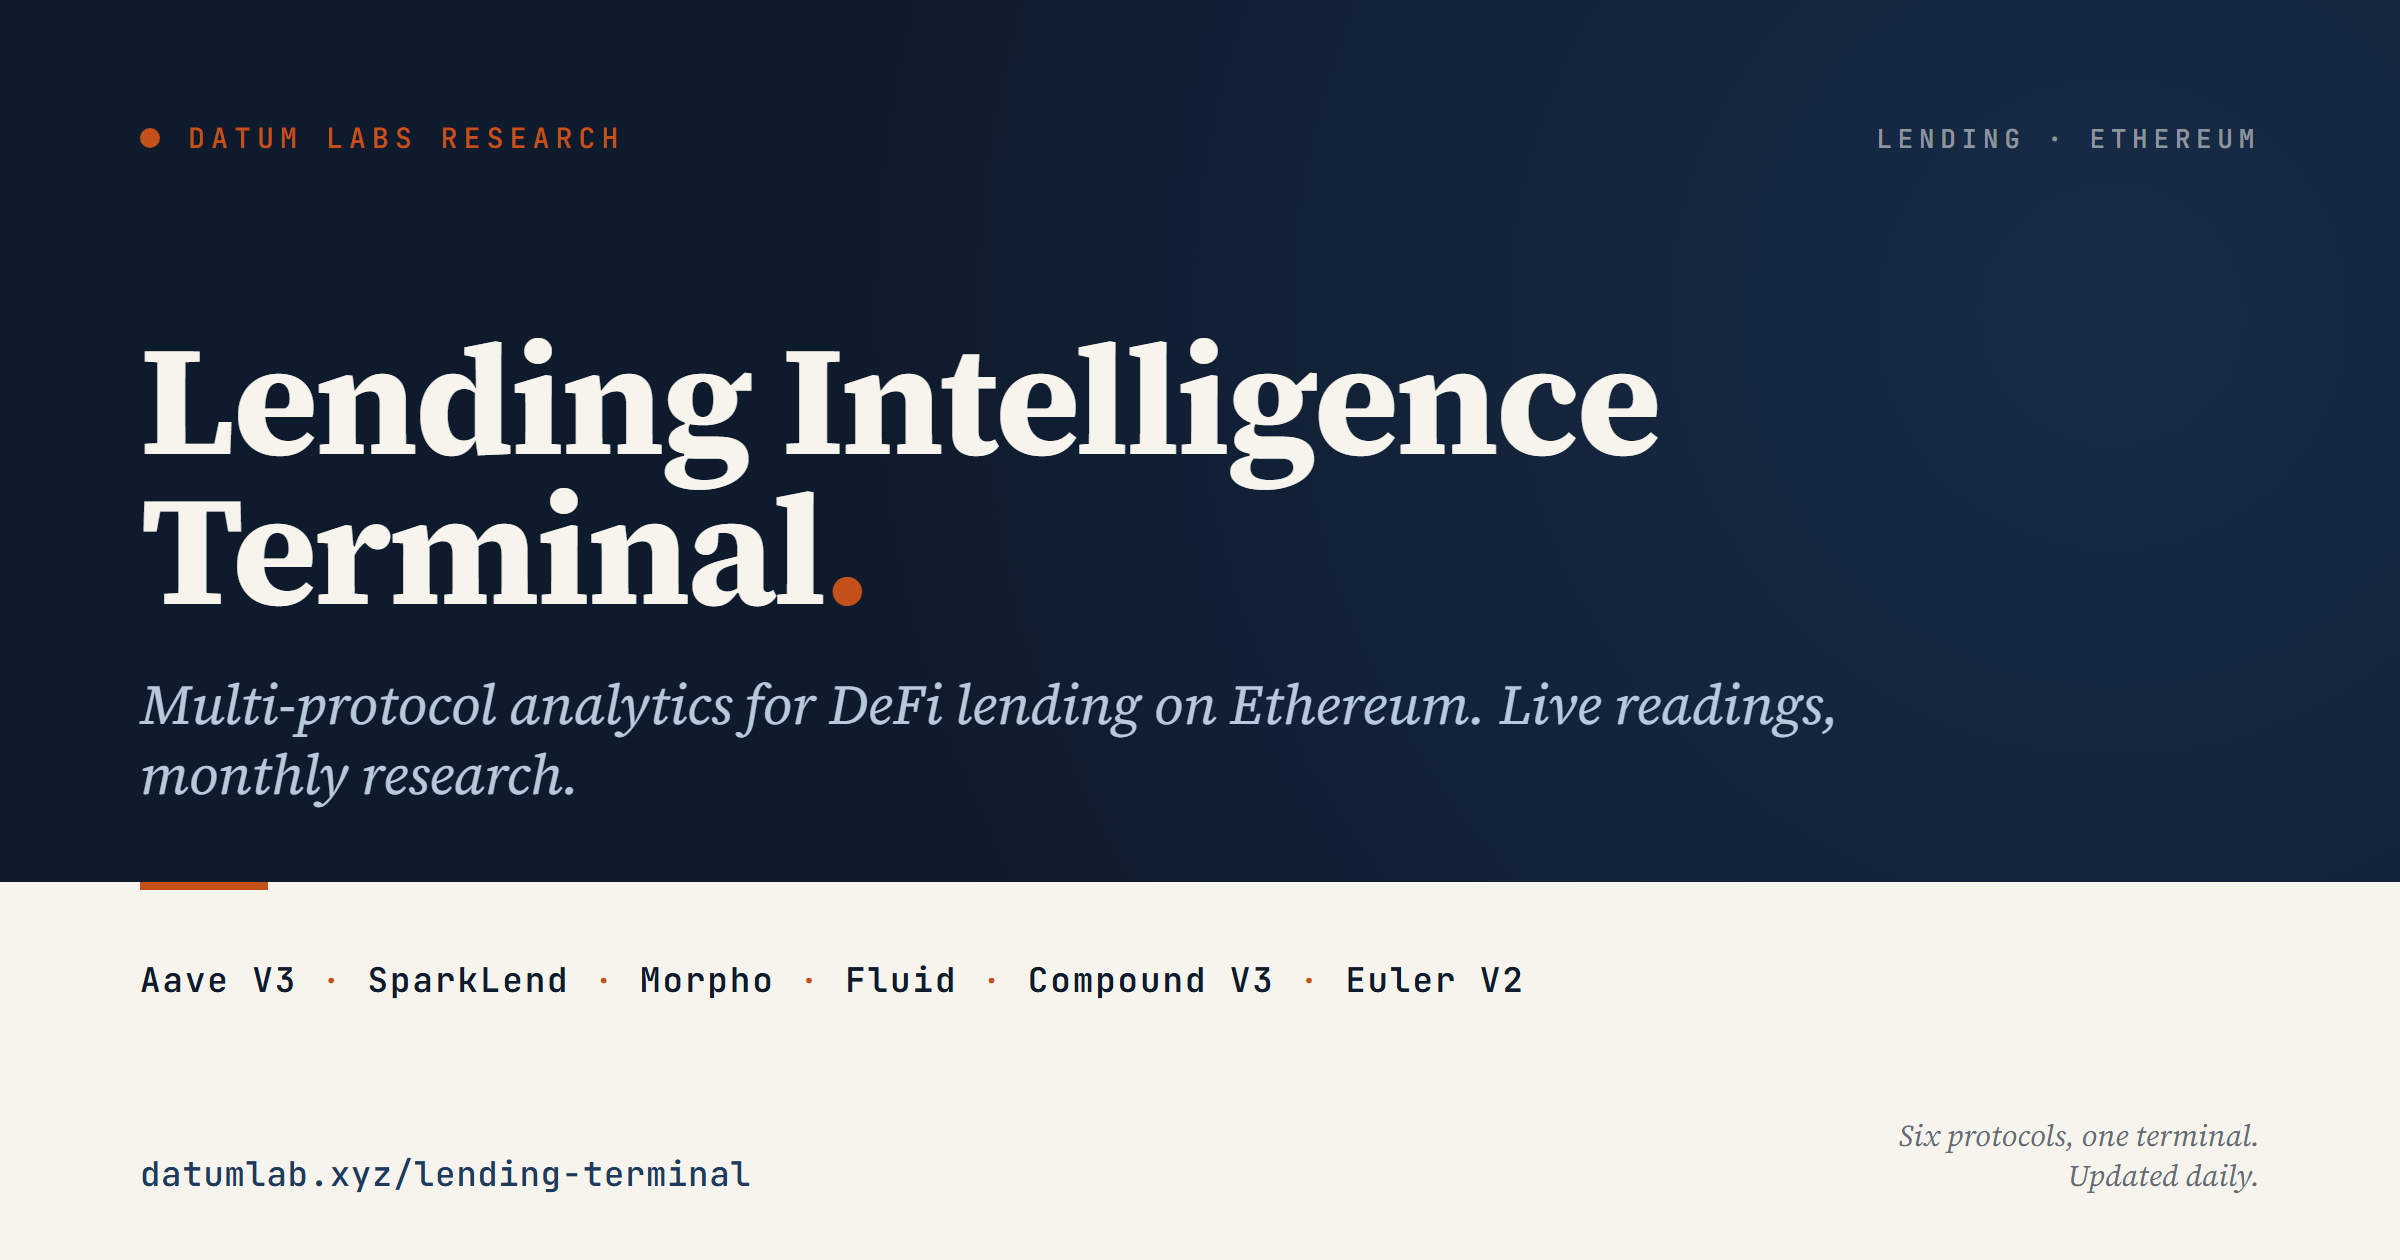
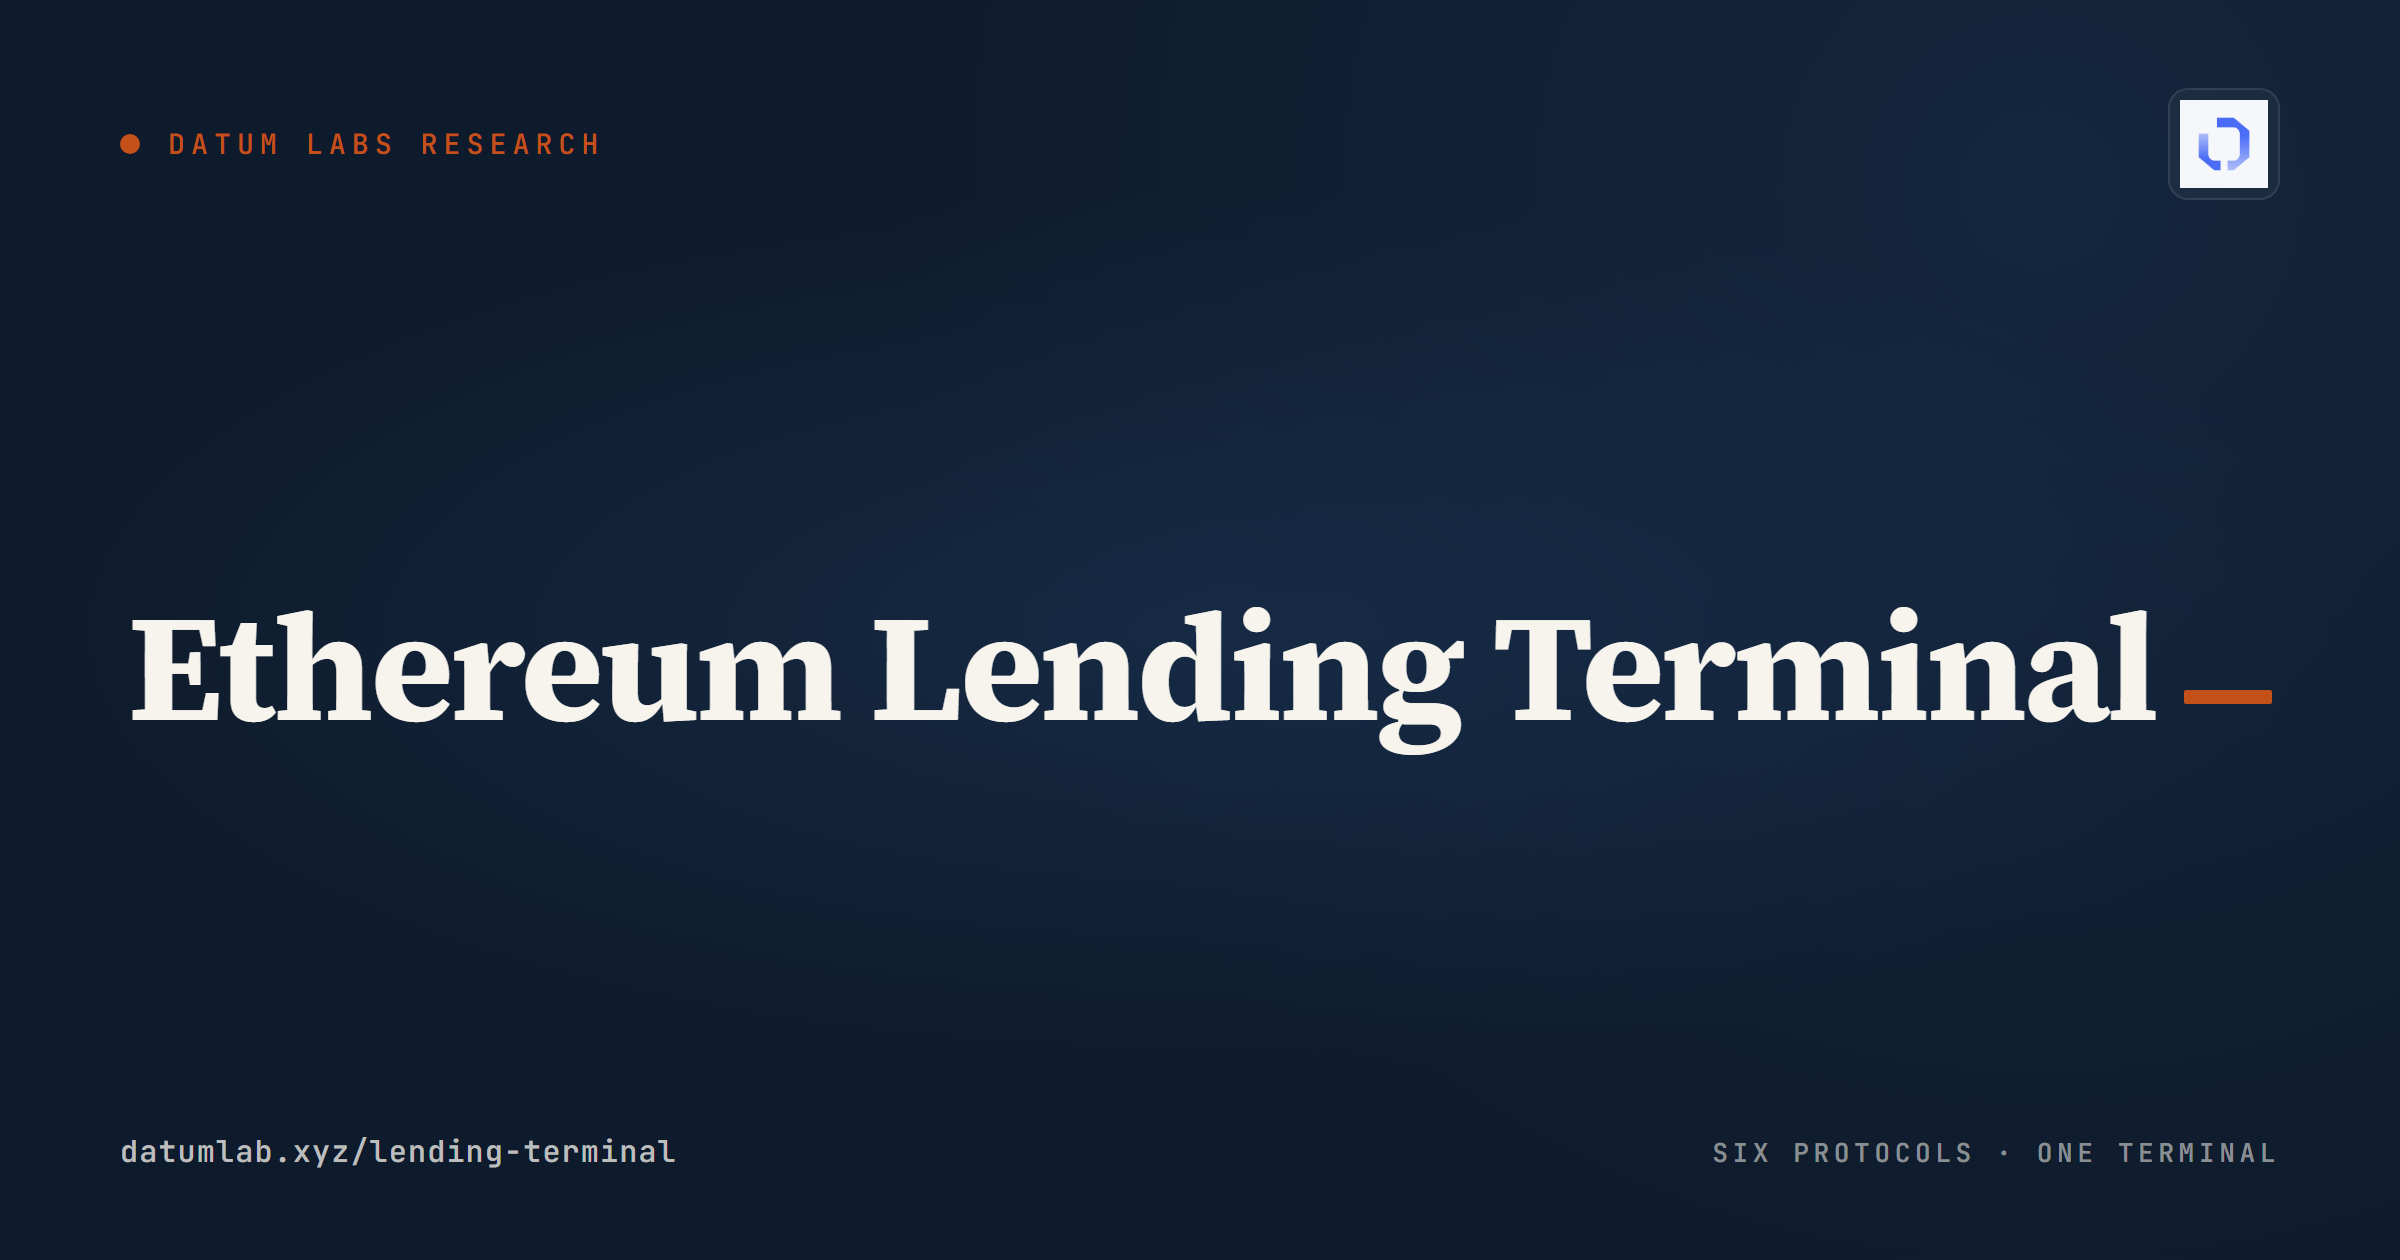
redesign(og): minimal centered wordmark for lending-terminal card
Reframes the dashboard OG card per editorial direction: drop the busy
two-zone layout (dark hero + cream footer with protocol row), bring back
a single centered wordmark in the Token Terminal mould but in Datum Labs
brand vocabulary.

  Top chrome:    DATUM LABS RESEARCH eyebrow (terracotta dot + uppercase
                 mono) on the left; Datum Labs brand icon in a soft
                 cream-tinted square on the right.
  Hero:          Single-line wordmark "Ethereum Lending Terminal" in
                 Source Serif 4 Bold at 76px (-0.022em tracking) with a
                 44×7px terracotta underscore cursor at the end, matching
                 the Token Terminal "_" prompt vibe but in #C5511A.
  Bottom chrome: datumlab.xyz/lending-terminal URL on the left;
                 "SIX PROTOCOLS · ONE TERMINAL" mono tag on the right.
  Background:    Ink #0E1B2C with two layered radial gradients (centred
                 cobalt glow + corner accent) for depth without noise.

The previous design's protocol-name row and tagline ("Six protocols,
one terminal. Updated daily.") are gone — the wordmark is the read.
"Six Protocols · One Terminal" lives in the corner tag for context.

diff --git a/content/og/lending-terminal.html b/content/og/lending-terminal.html
@@ -2,7 +2,7 @@
 <html lang="en">
 <head>
 <meta charset="UTF-8">
-<title>Lending Intelligence Terminal — OG Card</title>
+<title>Ethereum Lending Terminal — OG Card</title>
 <style>
   @import url('https://fonts.googleapis.com/css2?family=Source+Serif+4:ital,wght@0,400;0,600;0,700;1,400&family=JetBrains+Mono:wght@400;500;600&display=swap');
 
@@ -23,20 +23,16 @@
     position: relative;
     overflow: hidden;
     background:
-      radial-gradient(circle at 88% 25%, rgba(31, 58, 95, 0.55) 0%, rgba(14, 27, 44, 0) 55%),
-      linear-gradient(180deg, #0E1B2C 0%, #0E1B2C 70%, #F7F4ED 70%, #F7F4ED 100%);
-  }
-
-  /* Top dark hero zone */
-  .hero {
-    padding: 60px 70px 36px 70px;
-    height: 441px;
+      radial-gradient(ellipse 70% 50% at 50% 50%, rgba(31, 58, 95, 0.45) 0%, rgba(14, 27, 44, 0) 70%),
+      radial-gradient(circle at 85% 15%, rgba(31, 58, 95, 0.35) 0%, rgba(14, 27, 44, 0) 50%),
+      #0E1B2C;
     display: flex;
     flex-direction: column;
-    justify-content: space-between;
   }
 
-  .top-row {
+  /* Top chrome row */
+  .chrome-top {
+    padding: 44px 60px 0 60px;
     display: flex;
     justify-content: space-between;
     align-items: center;
@@ -64,131 +60,103 @@
     font-weight: 500;
   }
 
-  .label-row {
-    font-family: 'JetBrains Mono', monospace;
-    font-size: 13px;
-    letter-spacing: 0.22em;
-    text-transform: uppercase;
-    color: rgba(247, 244, 237, 0.55);
-    font-weight: 500;
+  .brand-icon {
+    width: 56px;
+    height: 56px;
+    background: rgba(247, 244, 237, 0.04);
+    border: 1px solid rgba(247, 244, 237, 0.10);
+    border-radius: 10px;
+    display: flex;
+    align-items: center;
+    justify-content: center;
   }
 
-  .title-block {
+  .brand-icon img {
+    width: 44px;
+    height: 44px;
+    display: block;
+  }
+
+  /* Center hero */
+  .hero {
+    flex: 1;
     display: flex;
     flex-direction: column;
-    gap: 22px;
+    justify-content: center;
+    align-items: center;
+    padding: 0 80px;
   }
 
-  .title {
+  .wordmark {
     font-family: 'Source Serif 4', 'Liberation Serif', Georgia, serif;
-    font-size: 78px;
-    line-height: 0.96;
+    font-size: 76px;
+    line-height: 1.0;
     font-weight: 700;
-    letter-spacing: -0.020em;
+    letter-spacing: -0.022em;
     color: #F7F4ED;
-  }
-
-  .title .accent {
-    color: #C5511A;
-  }
-
-  .subtitle {
-    font-family: 'Source Serif 4', 'Liberation Serif', Georgia, serif;
-    font-size: 28px;
-    line-height: 1.25;
-    font-style: italic;
-    font-weight: 400;
-    color: #B8C9DD;
-    max-width: 880px;
-  }
-
-  /* Bottom cream strip */
-  .footer {
-    height: 189px;
-    padding: 30px 70px 32px 70px;
-    background: #F7F4ED;
-    color: #0E1B2C;
-    display: flex;
-    flex-direction: column;
-    justify-content: space-between;
-    position: relative;
-  }
-
-  .footer::before {
-    content: "";
-    position: absolute;
-    top: 0;
-    left: 70px;
-    width: 64px;
-    height: 4px;
-    background: #C5511A;
-  }
-
-  .protocols-row {
-    font-family: 'JetBrains Mono', 'Liberation Mono', monospace;
-    font-size: 17px;
-    letter-spacing: 0.06em;
-    color: #0E1B2C;
-    font-weight: 600;
-    display: flex;
-    gap: 12px;
-    flex-wrap: wrap;
+    text-align: center;
+    white-space: nowrap;
+    display: inline-flex;
     align-items: baseline;
-    padding-top: 8px;
+    gap: 14px;
   }
 
-  .protocols-row .sep {
-    color: #C5511A;
-    font-weight: 400;
+  .wordmark .cursor {
+    display: inline-block;
+    width: 44px;
+    height: 7px;
+    background: #C5511A;
+    border-radius: 1px;
+    transform: translateY(-8px);
   }
 
-  .meta-row {
+  /* Bottom chrome row */
+  .chrome-bottom {
+    padding: 0 60px 44px 60px;
     display: flex;
     justify-content: space-between;
-    align-items: flex-end;
+    align-items: center;
   }
 
   .url {
     font-family: 'JetBrains Mono', 'Liberation Mono', monospace;
-    font-size: 17px;
-    color: #1F3A5F;
+    font-size: 15px;
+    letter-spacing: 0.04em;
+    color: rgba(247, 244, 237, 0.75);
     font-weight: 500;
-    letter-spacing: 0.02em;
   }
 
-  .tagline {
-    font-family: 'Source Serif 4', 'Liberation Serif', Georgia, serif;
-    font-size: 15px;
-    font-style: italic;
-    color: rgba(14, 27, 44, 0.65);
-    text-align: right;
-    line-height: 1.35;
+  .protocols {
+    font-family: 'JetBrains Mono', 'Liberation Mono', monospace;
+    font-size: 13px;
+    letter-spacing: 0.18em;
+    text-transform: uppercase;
+    color: rgba(247, 244, 237, 0.55);
+    font-weight: 500;
   }
 </style>
 </head>
 <body>
   <div class="card">
-    <div class="hero">
-      <div class="top-row">
-        <div class="brand">
-          <div class="brand-mark"></div>
-          <div class="brand-text">Datum Labs Research</div>
-        </div>
-        <div class="label-row">Lending · Ethereum</div>
+    <div class="chrome-top">
+      <div class="brand">
+        <div class="brand-mark"></div>
+        <div class="brand-text">Datum Labs Research</div>
       </div>
-      <div class="title-block">
-        <div class="title">Lending Intelligence<br/>Terminal<span class="accent">.</span></div>
-        <div class="subtitle">Multi-protocol analytics for DeFi lending on Ethereum. Live readings, monthly research.</div>
+      <div class="brand-icon">
+        <img src="../../public/branding/datumlabs-icon.png" alt="Datum Labs"/>
       </div>
     </div>
-    <div class="footer">
-      <div class="protocols-row">
-        Aave V3 <span class="sep">·</span> SparkLend <span class="sep">·</span> Morpho <span class="sep">·</span> Fluid <span class="sep">·</span> Compound V3 <span class="sep">·</span> Euler V2
+
+    <div class="hero">
+      <div class="wordmark">
+        Ethereum Lending Terminal<span class="cursor"></span>
       </div>
-      <div class="meta-row">
-        <div class="url">datumlab.xyz/lending-terminal</div>
-        <div class="tagline">Six protocols, one terminal.<br/>Updated daily.</div>
-      </div>
+    </div>
+
+    <div class="chrome-bottom">
+      <div class="url">datumlab.xyz/lending-terminal</div>
+      <div class="protocols">Six Protocols · One Terminal</div>
     </div>
   </div>
 </body>
